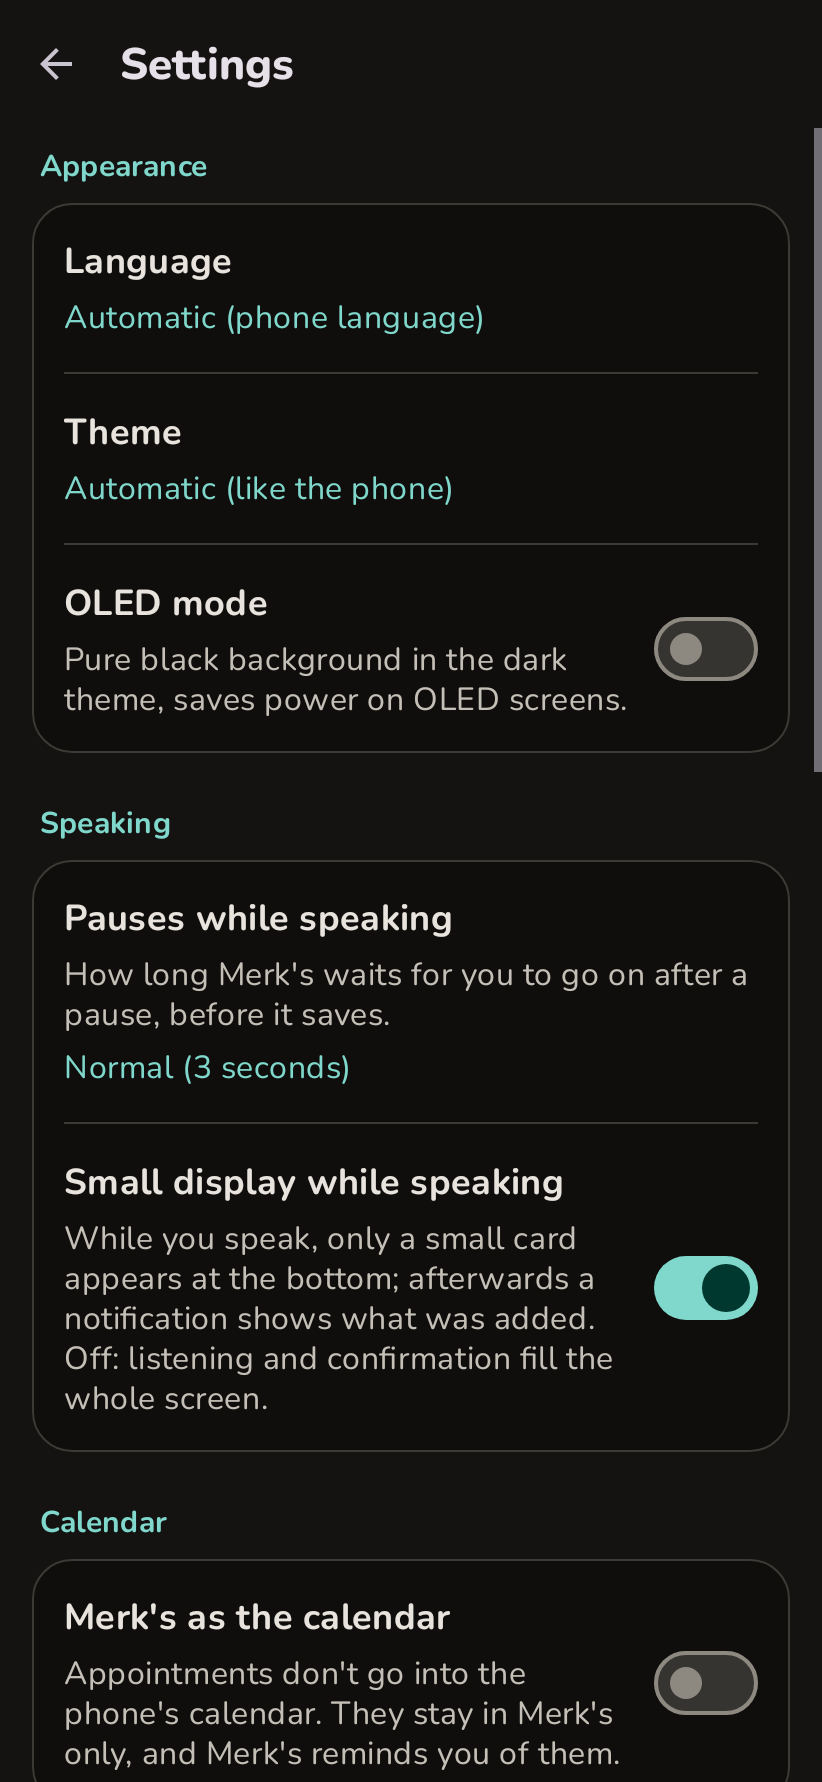
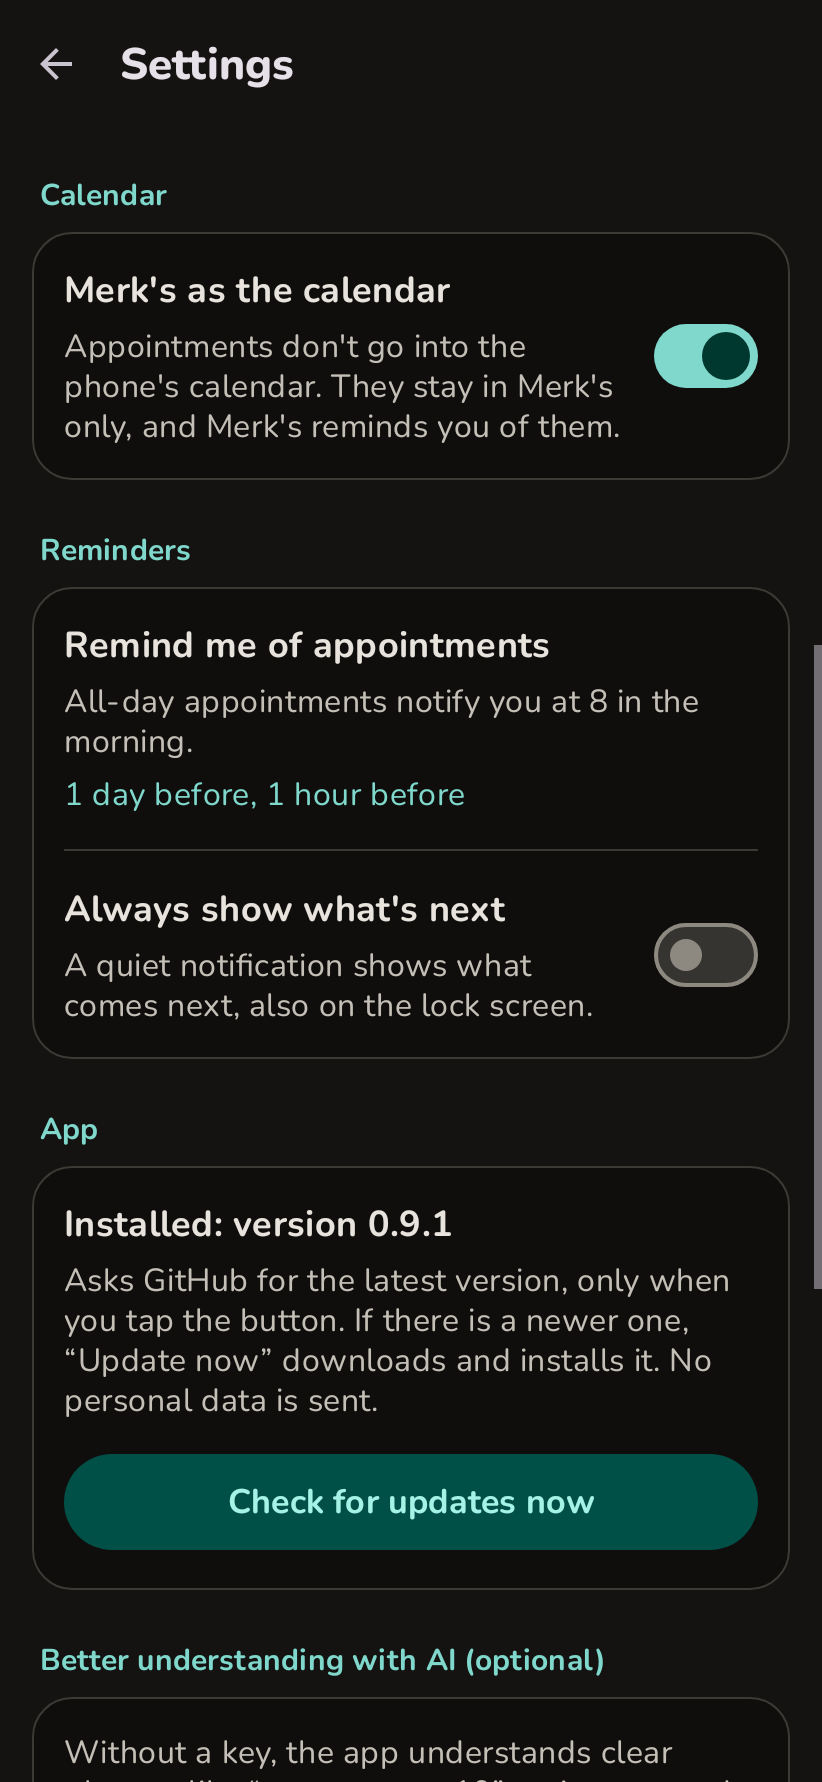
Describe Merk's as a calendar of its own, with new screenshots
- README: opens as a simple calendar you talk to, that fills the phone's
  calendar or is the calendar itself; calendar mode and reminder times
  now share one section. Four screenshots in one row: the list, the home
  screen with the Up next, Speak and Photo widgets, a photo read, and the
  calendar settings.
- Store texts (fastlane, English and German): new short and full
  descriptions with photos, Merk's as the calendar and reminder times;
  the AI note now says photos go to Anthropic too. Changelog for 0.9.1.
- Store screenshots 1-4 in both languages, from ScreenshotRender: new
  home screen and calendar settings renders, and times a person would
  pick in the sample entries.

Claude-Session: https://claude.ai/code/session_01BeRUbzauKFCoRaM6PqiE45

diff --git a/app/src/test/java/de/silvertax/merks/ScreenshotRender.kt b/app/src/test/java/de/silvertax/merks/ScreenshotRender.kt
@@ -98,16 +98,20 @@ class ScreenshotRender {
         shotActivity(activity, "7b_settings_top_dark")
     }
 
+    /** [hour]:[minute] today, or tomorrow when that is less than half an hour away: times a person would pick. */
+    private fun next(hour: Int, minute: Int = 0): LocalDateTime =
+        LocalDate.now().atTime(hour, minute).let { if (it.isAfter(LocalDateTime.now().plusMinutes(30))) it else it.plusDays(1) }
+
     private fun sampleEntries() {
         val today = LocalDate.now()
         val dentist = Store.save(app, Parsed(Kind.APPOINTMENT, t("Zahnarzt bei Neupert", "Dentist, Dr. Miller"), today.plusDays(1).atTime(10, 0), null, false), "x")
         Store.addNote(app, dentist, t("Versichertenkarte mitnehmen", "Bring the insurance card"))
-        Store.save(app, Parsed(Kind.REMINDER, t("Wäsche aufhängen", "Hang up the laundry"), LocalDateTime.now().plusHours(2).withMinute(0), null, false), "x")
+        Store.save(app, Parsed(Kind.REMINDER, t("Wäsche aufhängen", "Hang up the laundry"), next(18), null, false), "x")
         val series = t("Jeden Montag Mülltonne rausstellen", "Every Monday take out the trash")
         Store.save(app, Store.sort(app, series), series)
         Store.save(app, Parsed(Kind.APPOINTMENT, t("Geburtstag von Oma", "Grandma's birthday"), today.plusDays(9).atStartOfDay(), null, true), "x")
         Store.save(app, Parsed(Kind.NOTE, t("Geschenkidee: Fotobuch vom Urlaub", "Gift idea: photo book of the holiday"), null, null, false), "x")
-        val done = Store.save(app, Parsed(Kind.REMINDER, t("Rezept in der Apotheke abholen", "Pick up the prescription"), LocalDateTime.now().plusHours(3).withMinute(30), null, false), "x")
+        val done = Store.save(app, Parsed(Kind.REMINDER, t("Rezept in der Apotheke abholen", "Pick up the prescription"), next(16, 30), null, false), "x")
         Db(app).setDone(done.id, true)
     }
 
@@ -128,6 +132,11 @@ class ScreenshotRender {
 
     private fun listening(nightMode: Boolean, name: String) {
         night(nightMode)
+        shotActivity(listeningNow(), name)
+    }
+
+    /** Merk's listening, with the first words heard. */
+    private fun listeningNow(): RecordActivity {
         shadowOf(app).grantPermissions(Manifest.permission.RECORD_AUDIO)
         val service = ComponentName("com.example.speech", "com.example.speech.Recognizer")
         shadowOf(app.packageManager).addServiceIfNotPresent(service)
@@ -143,7 +152,7 @@ class ScreenshotRender {
             },
         )
         recognizer.triggerOnRmsChanged(7f)
-        shotActivity(activity, name)
+        return activity
     }
 
     /** After a pause: it keeps listening, with the words so far. */
@@ -317,6 +326,59 @@ class ScreenshotRender {
         v.measure(View.MeasureSpec.makeMeasureSpec(w, View.MeasureSpec.EXACTLY), View.MeasureSpec.makeMeasureSpec(w, View.MeasureSpec.EXACTLY))
         v.layout(0, 0, w, w)
         shot(v, "8_photo_widget_2x2")
+    }
+
+    /**
+     * The home screen for the store and the README: "Up next" above the buttons to speak and to
+     * photograph, and Merk's listening at the bottom after a tap on "Speak".
+     */
+    private fun homeScreen(name: String) {
+        night(true)
+        sampleEntries()
+        val density = app.resources.displayMetrics.density
+        fun px(dp: Int) = (dp * density).toInt()
+        val bmp = Bitmap.createBitmap(px(411), px(891), Bitmap.Config.ARGB_8888)
+        val canvas = Canvas(bmp)
+        // A plain dark wallpaper.
+        val wallpaper = android.graphics.Paint().apply {
+            shader = android.graphics.LinearGradient(
+                0f, 0f, 0f, bmp.height.toFloat(), Color.rgb(16, 24, 32), Color.rgb(43, 61, 71), android.graphics.Shader.TileMode.CLAMP,
+            )
+        }
+        canvas.drawRect(0f, 0f, bmp.width.toFloat(), bmp.height.toFloat(), wallpaper)
+        fun place(v: View, x: Int, y: Int, w: Int, h: Int) {
+            v.measure(View.MeasureSpec.makeMeasureSpec(px(w), View.MeasureSpec.EXACTLY), View.MeasureSpec.makeMeasureSpec(px(h), View.MeasureSpec.EXACTLY))
+            v.layout(0, 0, px(w), px(h))
+            canvas.save()
+            canvas.translate(px(x).toFloat(), px(y).toFloat())
+            v.draw(canvas)
+            canvas.restore()
+        }
+        val look = NextWidget.lookFor(345f, 160f, app.resources.configuration.fontScale)
+        place(NextWidget.views(app, Glance.nextUp(app), System.currentTimeMillis(), look).apply(app, null), 33, 72, 345, 160)
+        place(LayoutInflater.from(app).inflate(R.layout.widget_speak, null), 33, 256, 150, 150)
+        place(LayoutInflater.from(app).inflate(R.layout.widget_photo, null), 228, 256, 150, 150)
+        val card = listeningNow().also { idle(400) }.window.decorView
+        canvas.save()
+        canvas.translate(0f, (bmp.height - card.height).toFloat())
+        card.draw(canvas)
+        canvas.restore()
+        save(bmp, name)
+    }
+
+    @Test fun home() = homeScreen("15_home")
+
+    /** What makes Merk's a calendar of its own: the switch, and when appointments remind. */
+    @Test fun calendarSettings() {
+        night(true)
+        Prefs.setOwnCalendar(app, true)
+        Prefs.setLeads(app, setOf(Lead.DAY, Lead.HOUR))
+        val activity = Robolectric.buildActivity(SettingsActivity::class.java).setup().get()
+        idle(400)
+        val card = activity.findViewById<View>(R.id.row_own_calendar).parent as View
+        val scroll = activity.findViewById<View>(R.id.settings_root).parent as android.widget.ScrollView
+        scroll.scrollTo(0, card.top - (52 * app.resources.displayMetrics.density).toInt())
+        shotActivity(activity, "16_calendar_dark")
     }
 
     @Test fun icon() {

diff --git a/README.md b/README.md
@@ -1,15 +1,14 @@
 # Merk's
 
-Tap once, say it, done. Merk's is an Android app for people who do not want to open an app, type, or think about where something belongs.
+A simple calendar you talk to. Tap once, say it, done: Merk's is an Android app for people who do not want to open an app, type, or think about where something belongs.
 
-A home screen widget starts listening right away. What you say becomes an appointment, a reminder or a note. Appointments go into your calendar, or stay in Merk's if it is your calendar, and the app reminds you in time. A letter or an appointment card can simply be photographed. Merk's speaks English and German.
+A home screen widget starts listening right away. What you say becomes an appointment, a reminder or a note, and Merk's reminds you in time. A letter or an appointment card can simply be photographed. Merk's fills your phone's calendar, or it is your calendar itself: then appointments stay in Merk's only, and you choose when it reminds you of them. Merk's speaks English and German.
 
 <p>
-  <img src="docs/screenshots/en-speaking.png" width="200" alt="Home screen with the Up next widget, speaking via the widget">
-  <img src="docs/screenshots/en-main-dark.png" width="200" alt="List of entries">
-  <img src="docs/screenshots/en-photo.png" width="200" alt="Appointments read from a photo, to check before they go into the calendar">
-  <img src="docs/screenshots/en-changed.png" width="200" alt="Date changed by voice">
-  <img src="docs/screenshots/en-settings-dark.png" width="200" alt="Settings">
+  <img src="docs/screenshots/en-main-dark.png" width="200" alt="List of entries: what is coming up, soonest first, then the notes">
+  <img src="docs/screenshots/en-speaking.png" width="200" alt="Home screen with the Up next, Speak and Photo widgets, speaking via the widget">
+  <img src="docs/screenshots/en-photo.png" width="200" alt="Appointments read from a photo, to check before they are saved">
+  <img src="docs/screenshots/en-settings-dark.png" width="200" alt="Settings: Merk's as the calendar, and when it reminds you">
 </p>
 
 ## Install
@@ -32,23 +31,23 @@ Prefer typing, or a word was understood wrongly? Tap the entry and then "Edit by
 
 ## Appointments from a photo
 
-Got a letter or an appointment card? Tap "Snap an appointment" in the app or the "Photo" widget, and take a photo of it. Merk's reads the date, the time and what it is about, and shows it to check: change the title, the day or the time, and add a note, then "Add to calendar". A card with several treatments gives several appointments; untick the ones you don't want. The letter's own date, birthdays and dates that are over are left out. If no date was found, you can pick it yourself.
+Got a letter or an appointment card? Tap "Snap an appointment" in the app or the "Photo" widget, and take a photo of it. Merk's reads the date, the time and what it is about, and shows it to check: change the title, the day or the time, and add a note, then "Add to calendar" ("Save" when Merk's is the calendar). A card with several treatments gives several appointments; untick the ones you don't want. The letter's own date, birthdays and dates that are over are left out. If no date was found, you can pick it yourself.
 
 The photo is not kept: it is deleted as soon as it has been read, and it never lands in your gallery from Merk's. Only the line the date came from stays with the entry, so you can see later where it was read.
 
 Without an AI key, the phone reads the photo itself (Tesseract, built in). That works well for printed text; handwriting it can hardly read. With an AI key, the AI reads the photo, handwriting included; without internet, the phone reads it itself.
 
-## More
+## Calendar and reminders
 
-Repeating things work too: "Every Monday take out the trash", "Every weekday at 7 am walk the dog", "Every other Wednesday choir at 6 pm", "Every year on December 3rd grandma's birthday". They become repeating calendar events.
-
-Time spans and several days work as well: "Tomorrow from 10 to 12 handyman", "December 20 to 23 grandma visits".
+Appointments go into your phone's calendar, so you see them there too. For anyone who keeps their appointments in Merk's and never opens the phone's calendar: switch on Settings → Merk's as the calendar. Appointments then stay in Merk's only, and Merk's reminds you of them. The appointments already in the phone's calendar can be taken out of it in the same step, so the calendar app does not remind you as well. Switched off again, the appointments that are only in Merk's can go into the calendar.
 
 Reminders come on time. For appointments you choose when (Settings → Remind me of appointments): a week, a day or two hours ahead, the evening before at 6 pm, an hour, 30 or 15 minutes ahead, when it starts, or several of these. Out of the box it is the evening before and an hour ahead; all-day appointments remind at 8 in the morning. Each reminder has "In 15 min" and "In 1 hr" buttons, and "Done" for a reminder or "OK" for an appointment: "OK" puts away only this notification, so the reminders still to come for the appointment come all the same.
 
-## Merk's as the calendar
+## More
 
-For anyone who keeps their appointments in Merk's and never opens the phone's calendar: switch on Settings → Merk's as the calendar. Appointments then stay in Merk's only, and Merk's reminds you of them. The appointments already in the phone's calendar can be taken out of it in the same step, so the calendar app does not remind you as well. Switched off again, the appointments that are only in Merk's can go into the calendar.
+Repeating things work too: "Every Monday take out the trash", "Every weekday at 7 am walk the dog", "Every other Wednesday choir at 6 pm", "Every year on December 3rd grandma's birthday". They become repeating appointments, in the phone's calendar as a series.
+
+Time spans and several days work as well: "Tomorrow from 10 to 12 handyman", "December 20 to 23 grandma visits".
 
 The "Speak" and "Photo" widgets can be resized from 2x2 down to 1x1. Another widget, "Up next", shows on your home screen what comes next, and a tap on it opens the list with everything. It starts two cells wide, so it fits next to the "Speak" button as a second big button; made taller, it also lists the two entries after it. "Put on the home screen" in the app offers all three.
 
